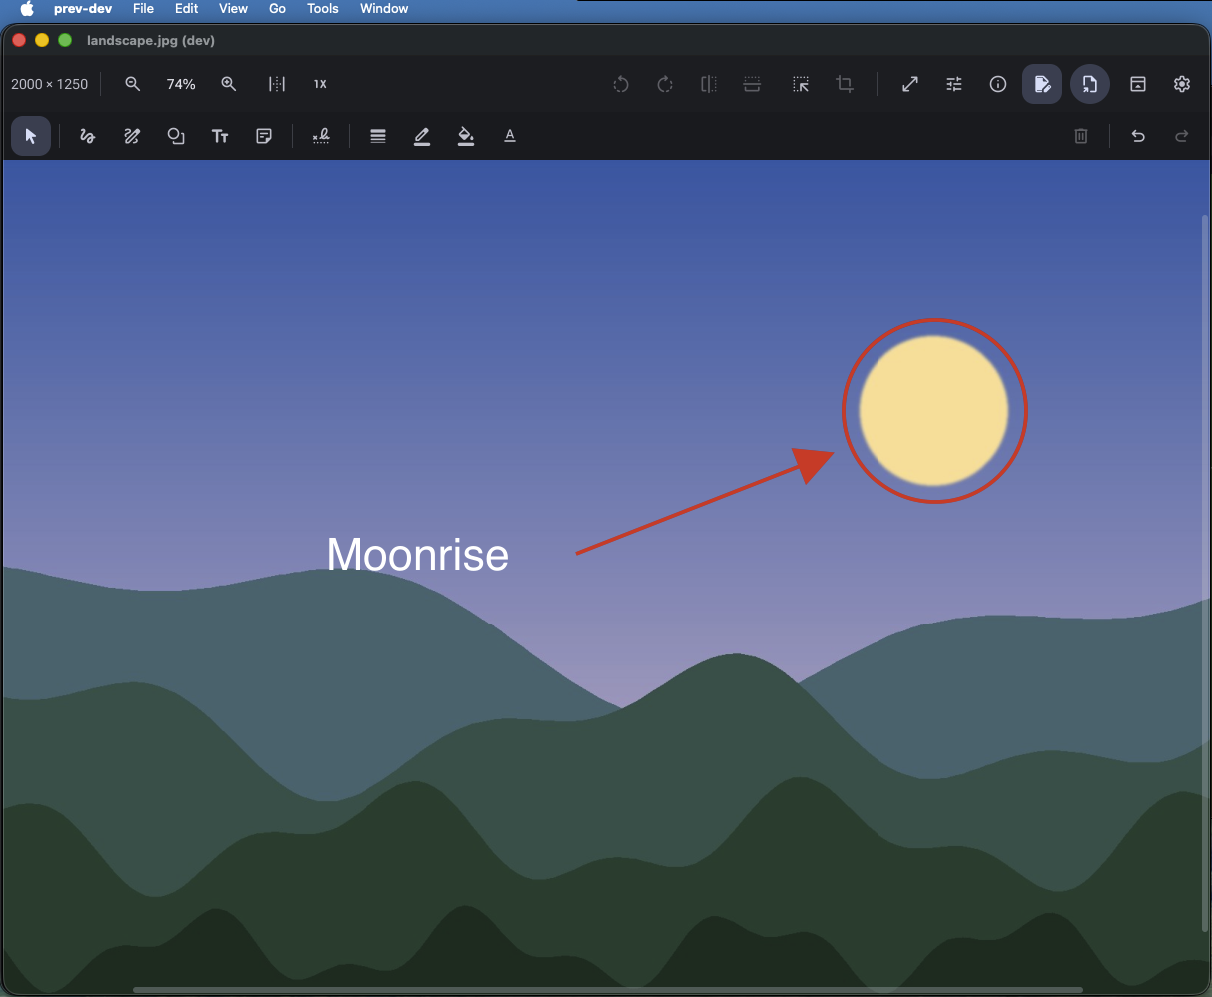
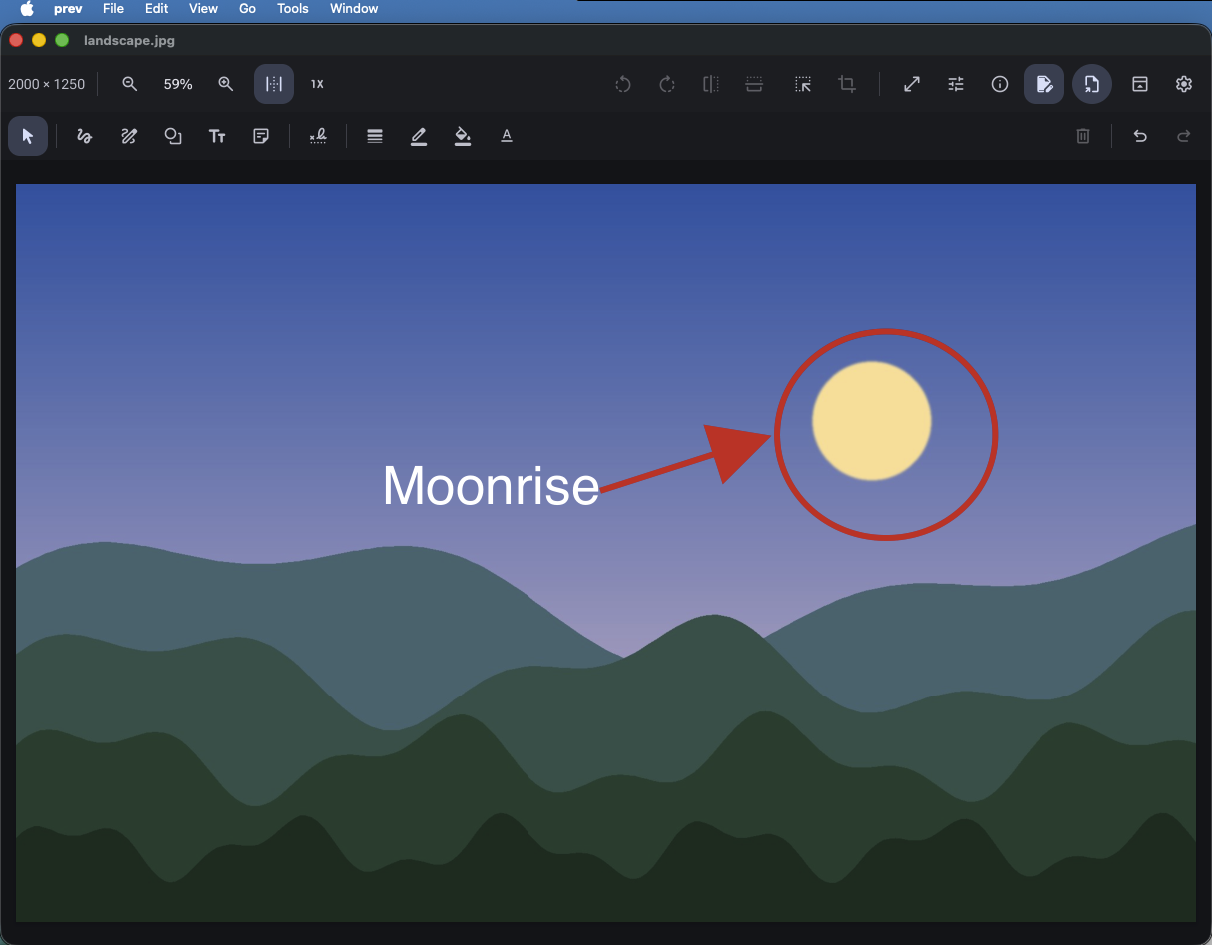
docs: retake the macOS screenshots without the dev build
- Both macOS screenshots come from a release-style prev.app, so the
  menu bar says prev and the window titles have no dev mark
- The marked-up photo fills its window

Changed region(s): [[0.0, 0.0, 1.0, 1.0], [0.7327, 0.0614, 0.7937, 0.0921], [0.6106, 0.0614, 0.6716, 0.0921]]

diff --git a/site/index.html b/site/index.html
@@ -96,8 +96,8 @@
     <div class="gallery">
       <figure><img class="shot plain" src="screenshots/platforms/windows-markup.png" alt="prev on Windows 11 with a garden plot application filled in, highlighted, circled, noted and signed" width="1346" height="843" loading="lazy"><figcaption>Filling in and signing a form on Windows</figcaption></figure>
       <figure><img class="shot plain" src="screenshots/platforms/windows-image-markup.png" alt="prev on Windows 11 with a landscape photo marked up with an oval, an arrow and the word Moonrise" width="1346" height="843" loading="lazy"><figcaption>Marking up a photo on Windows</figcaption></figure>
-      <figure><img class="shot plain" src="screenshots/platforms/macos-markup.png" alt="prev on macOS, below its menu bar, with the garden plot application filled in and signed" width="1210" height="997" loading="lazy"><figcaption>The same form on macOS</figcaption></figure>
-      <figure><img class="shot plain" src="screenshots/platforms/macos-image-markup.png" alt="prev on macOS, below its menu bar, with the landscape photo marked up" width="1212" height="997" loading="lazy"><figcaption>The same photo on macOS</figcaption></figure>
+      <figure><img class="shot plain" src="screenshots/platforms/macos-markup.png" alt="prev on macOS, below its menu bar, with the garden plot application filled in and signed" width="1210" height="1008" loading="lazy"><figcaption>The same form on macOS</figcaption></figure>
+      <figure><img class="shot plain" src="screenshots/platforms/macos-image-markup.png" alt="prev on macOS, below its menu bar, with the landscape photo marked up" width="1212" height="945" loading="lazy"><figcaption>The same photo on macOS</figcaption></figure>
     </div>
   </section>
 

diff --git a/site/guide.html b/site/guide.html
@@ -595,7 +595,7 @@ soon as you choose something from it (a button that opens its own menu,
 such as Pages, keeps it open under that menu). The search field grows
 into whatever room the toolbar has left.</p>
 <figure><img class="shot plain" src="screenshots/platforms/windows-markup.png" alt="prev on Windows 11 with the garden plot application filled in and signed" width="1346" height="843" loading="lazy"></figure>
-<figure><img class="shot plain" src="screenshots/platforms/macos-image-markup.png" alt="prev on macOS, below its menu bar, with a landscape photo marked up" width="1212" height="997" loading="lazy"></figure>
+<figure><img class="shot plain" src="screenshots/platforms/macos-image-markup.png" alt="prev on macOS, below its menu bar, with a landscape photo marked up" width="1212" height="945" loading="lazy"></figure>
 </main>
 
 <footer>
